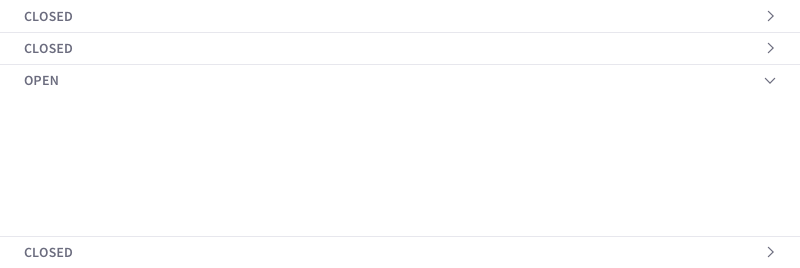
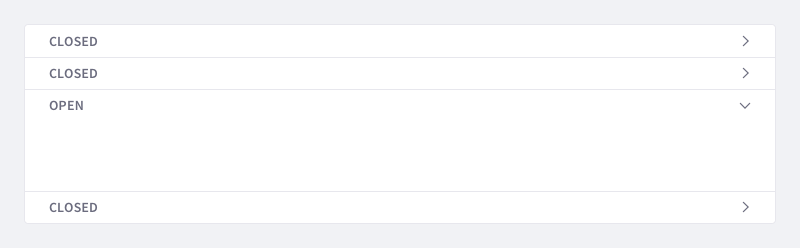
panels page update

diff --git a/src/pages/docs/patterns/panel.md b/src/pages/docs/patterns/panel.md
@@ -9,35 +9,19 @@ weight: 1
 
 {$page.description}
 
-*Work in progress*
-
 ### Usage
 
 Panel are use to help separating content a making processes as reading or filling a form easier to the user. Panels are a way of chunking into smaller pieces.
 
-### Configuration
+![panel body, the most simple version](../../../images/Panel.png)
 
-Panels can be configured in different ways:
-
-#### Body
-
-Use this configuration to separate content inside a form.
-
-![panel only body most simple version](../../../images/panelNaked.png)
-
-#### Header + body
-
-Use this configuration when you need to se parate a content that needs a title and the title needs to capture the attention of your user.
-
-Do never use it to collapse content without a disclosure arrow. Use an accordion in that case.
-
-![panel with header](../../../images/panelHeaderBody.png)
+* Do not nest a panel inside another panel.
 
 ### Variations
 
 #### Accordion
 
-Panels can be collapsible. Whenever there is a collapsible panel the header must include a disclosure icon as an affordance to let the user understand that open and close actions can be performed.
+Panels can be collapsible. Whenever there is a collapsible panel the header must include a disclosure icon as an affordance to let the user understand that open and close actions can be performed. Accordions do no autoclose when another one is open.
 
 It is not a good practice to anidate accordions. Please try to avoid it.
 
